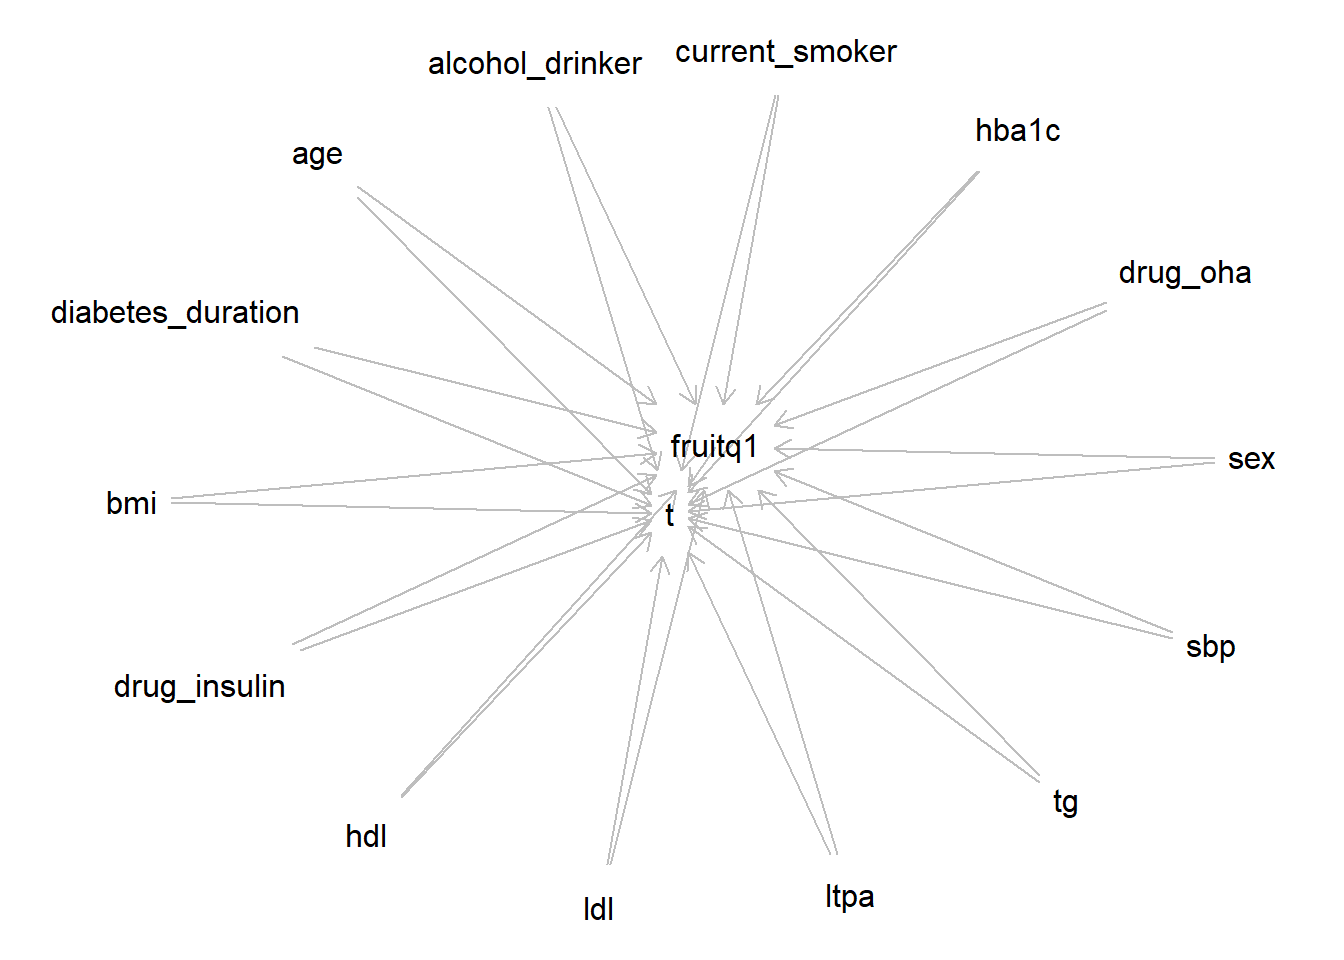
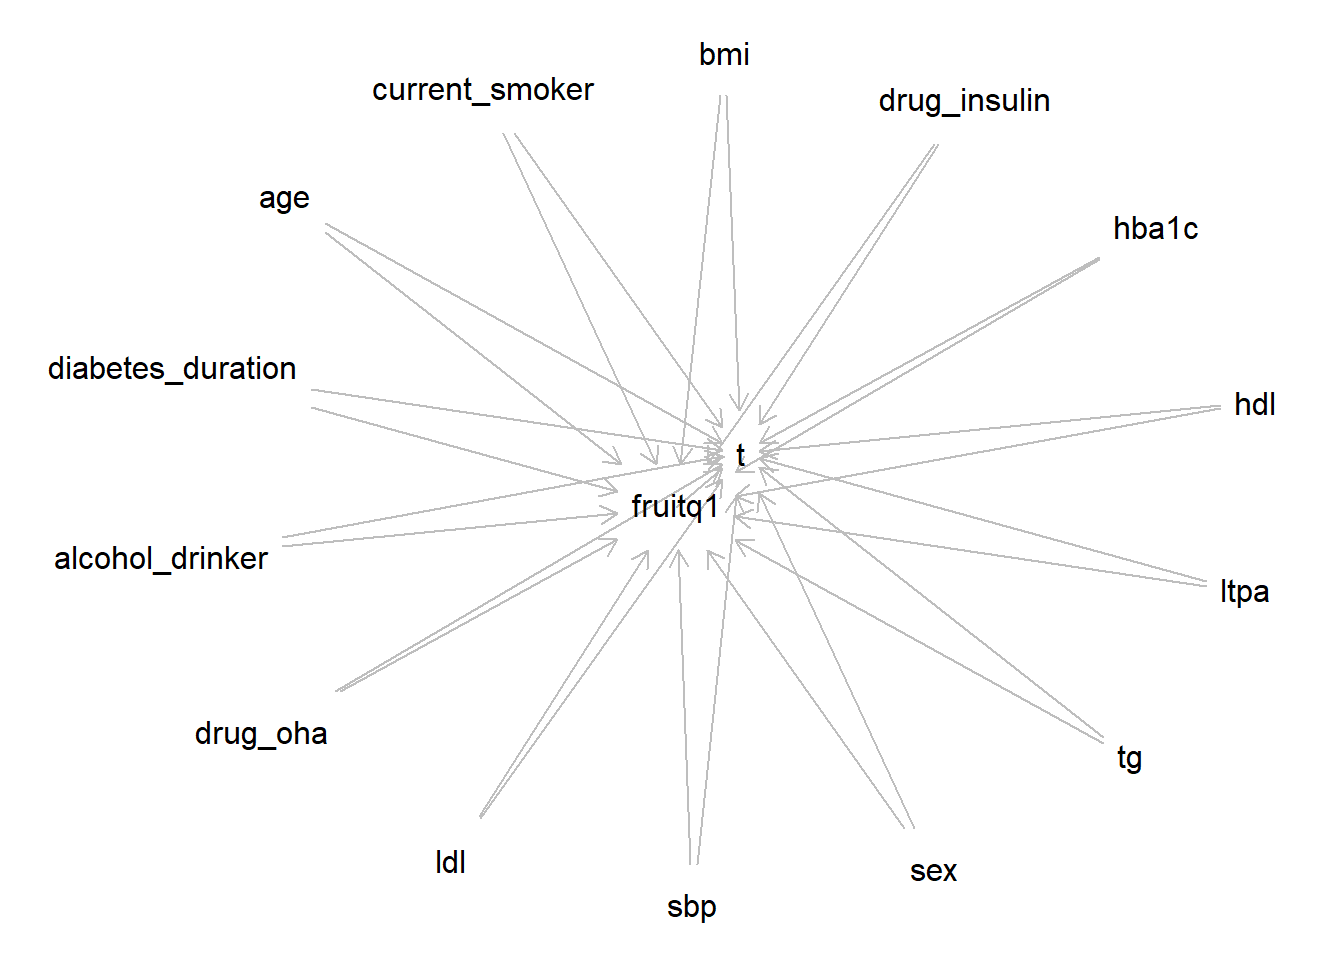
ai-r

diff --git a/docs/jp/ai-r-3.html b/docs/jp/ai-r-3.html
@@ -713,7 +713,7 @@ Adjusted    690.37  208.59</code></pre>
 </div>
 </div>
 <div class="callout callout-style-simple callout-note callout-titled" title="競合リスクデータの入力">
-<div class="callout-header d-flex align-content-center" data-bs-toggle="collapse" data-bs-target=".callout-8-contents" aria-controls="callout-8" aria-expanded="false" aria-label="Toggle callout">
+<div class="callout-header d-flex align-content-center" data-bs-toggle="collapse" data-bs-target=".callout-17-contents" aria-controls="callout-17" aria-expanded="false" aria-label="Toggle callout">
 <div class="callout-icon-container">
 <i class="callout-icon"></i>
 </div>
@@ -722,9 +722,16 @@ Adjusted    690.37  208.59</code></pre>
 </div>
 <div class="callout-btn-toggle d-inline-block border-0 py-1 ps-1 pe-0 float-end"><i class="callout-toggle"></i></div>
 </div>
-<div id="callout-8" class="callout-8-contents callout-collapse collapse">
+<div id="callout-17" class="callout-17-contents callout-collapse collapse">
 <div class="callout-body-container callout-body">
+<div class="tabset-margin-container"></div><div class="panel-tabset">
+<ul class="nav nav-tabs" role="tablist"><li class="nav-item" role="presentation"><a class="nav-link active" id="tabset-1-1-tab" data-bs-toggle="tab" data-bs-target="#tabset-1-1" role="tab" aria-controls="tabset-1-1" aria-selected="true">A</a></li><li class="nav-item" role="presentation"><a class="nav-link" id="tabset-1-2-tab" data-bs-toggle="tab" data-bs-target="#tabset-1-2" role="tab" aria-controls="tabset-1-2" aria-selected="false">B</a></li></ul>
+<div class="tab-content">
+<div id="tabset-1-1" class="tab-pane active" role="tabpanel" aria-labelledby="tabset-1-1-tab">
 <p>生存時間・競合リスクデータは2つの変数の組であるため、Rの関数に入力するときもペアで指定する必要があります。<strong>survival</strong>パッケージの<code>survfit()</code>や<code>coxph()</code>では、実は入力専用の関数<code>Surv()</code>を用意しています。入力の仕様はパッケージによってまちまちで、たとえば<strong>mets</strong>パッケージでは<code>Event()</code>を別に定義して用いています。<strong>cifmodeling</strong>パッケージの<code>cifplot()</code>は、<code>Surv()</code>と<code>Event()</code>の両方に対応しています。</p>
+</div>
+<div id="tabset-1-2" class="tab-pane" role="tabpanel" aria-labelledby="tabset-1-2-tab">
+<p>LLL</p>
 </div>
 </div>
 </div>
@@ -732,7 +739,7 @@ Adjusted    690.37  208.59</code></pre>
 <div class="sourceCode cell-code" id="cb26"><pre class="sourceCode r code-with-copy"><code class="sourceCode r"><span id="cb26-1"><a href="#cb26-1" aria-hidden="true" tabindex="-1"></a><span class="st">`</span><span class="at">cifplot()</span><span class="st">`</span>を使って、累積発生曲線を描いて。<span class="st">`</span><span class="at">epsilon=1</span><span class="st">`</span>がイベント、<span class="st">`</span><span class="at">epsilon=2</span><span class="st">`</span>が競合リスク。<span class="st">`</span><span class="at">fruitq1</span><span class="st">`</span>で層別して<span class="st">"</span></span></code><button title="Copy to Clipboard" class="code-copy-button"><i class="bi"></i></button></pre></div>
 </div>
 <div class="callout callout-style-simple callout-note callout-titled" title="累積発生曲線（デフォルト）のRコードと結果はこちら">
-<div class="callout-header d-flex align-content-center" data-bs-toggle="collapse" data-bs-target=".callout-9-contents" aria-controls="callout-9" aria-expanded="false" aria-label="Toggle callout">
+<div class="callout-header d-flex align-content-center" data-bs-toggle="collapse" data-bs-target=".callout-8-contents" aria-controls="callout-8" aria-expanded="false" aria-label="Toggle callout">
 <div class="callout-icon-container">
 <i class="callout-icon"></i>
 </div>
@@ -741,7 +748,7 @@ Adjusted    690.37  208.59</code></pre>
 </div>
 <div class="callout-btn-toggle d-inline-block border-0 py-1 ps-1 pe-0 float-end"><i class="callout-toggle"></i></div>
 </div>
-<div id="callout-9" class="callout-9-contents callout-collapse collapse">
+<div id="callout-8" class="callout-8-contents callout-collapse collapse">
 <div class="callout-body-container callout-body">
 <div class="cell">
 <div class="sourceCode cell-code" id="cb27"><pre class="sourceCode r code-with-copy"><code class="sourceCode r"><span id="cb27-1"><a href="#cb27-1" aria-hidden="true" tabindex="-1"></a><span class="fu">cifplot</span>(<span class="fu">Event</span>(t,epsilon)<span class="sc">~</span>fruitq1, <span class="at">data=</span>dat, <span class="at">outcome.type=</span><span class="st">"competing-risk"</span>, <span class="at">code.event1 =</span> <span class="dv">1</span>, <span class="at">code.event2 =</span> <span class="dv">2</span>)</span></code><button title="Copy to Clipboard" class="code-copy-button"><i class="bi"></i></button></pre></div>
@@ -773,7 +780,7 @@ Adjusted    690.37  208.59</code></pre>
 </div>
 </div>
 <div class="callout callout-style-simple callout-note callout-titled" title="競合リスクをマーキングしたRコードと結果はこちら">
-<div class="callout-header d-flex align-content-center" data-bs-toggle="collapse" data-bs-target=".callout-10-contents" aria-controls="callout-10" aria-expanded="false" aria-label="Toggle callout">
+<div class="callout-header d-flex align-content-center" data-bs-toggle="collapse" data-bs-target=".callout-9-contents" aria-controls="callout-9" aria-expanded="false" aria-label="Toggle callout">
 <div class="callout-icon-container">
 <i class="callout-icon"></i>
 </div>
@@ -782,7 +789,7 @@ Adjusted    690.37  208.59</code></pre>
 </div>
 <div class="callout-btn-toggle d-inline-block border-0 py-1 ps-1 pe-0 float-end"><i class="callout-toggle"></i></div>
 </div>
-<div id="callout-10" class="callout-10-contents callout-collapse collapse">
+<div id="callout-9" class="callout-9-contents callout-collapse collapse">
 <div class="callout-body-container callout-body">
 <div class="cell">
 <div class="sourceCode cell-code" id="cb28"><pre class="sourceCode r code-with-copy"><code class="sourceCode r"><span id="cb28-1"><a href="#cb28-1" aria-hidden="true" tabindex="-1"></a><span class="fu">cifplot</span>(<span class="fu">Event</span>(t,epsilon)<span class="sc">~</span>fruitq1, <span class="at">data=</span>dat, <span class="at">outcome.type=</span><span class="st">"competing-risk"</span>, </span>
@@ -800,7 +807,6 @@ Adjusted    690.37  208.59</code></pre>
 </div>
 </div>
 </div>
-</section>
 <section id="因果効果の推定" class="level3">
 <h3 class="anchored" data-anchor-id="因果効果の推定">因果効果の推定</h3>
 <div class="dialogue">
@@ -830,7 +836,7 @@ Adjusted    690.37  208.59</code></pre>
 </div>
 </div>
 <div class="callout callout-style-simple callout-note callout-titled" title="調整CIFのRコードと結果はこちら">
-<div class="callout-header d-flex align-content-center" data-bs-toggle="collapse" data-bs-target=".callout-11-contents" aria-controls="callout-11" aria-expanded="false" aria-label="Toggle callout">
+<div class="callout-header d-flex align-content-center" data-bs-toggle="collapse" data-bs-target=".callout-10-contents" aria-controls="callout-10" aria-expanded="false" aria-label="Toggle callout">
 <div class="callout-icon-container">
 <i class="callout-icon"></i>
 </div>
@@ -839,7 +845,7 @@ Adjusted    690.37  208.59</code></pre>
 </div>
 <div class="callout-btn-toggle d-inline-block border-0 py-1 ps-1 pe-0 float-end"><i class="callout-toggle"></i></div>
 </div>
-<div id="callout-11" class="callout-11-contents callout-collapse collapse">
+<div id="callout-10" class="callout-10-contents callout-collapse collapse">
 <div class="callout-body-container callout-body">
 <div class="cell">
 <div class="sourceCode cell-code" id="cb29"><pre class="sourceCode r code-with-copy"><code class="sourceCode r"><span id="cb29-1"><a href="#cb29-1" aria-hidden="true" tabindex="-1"></a><span class="fu">cifplot</span>(<span class="fu">Event</span>(t,epsilon)<span class="sc">~</span>fruitq1, <span class="at">data=</span>dat, <span class="at">outcome.type=</span><span class="st">"competing-risk"</span>, </span>
@@ -877,7 +883,7 @@ Adjusted    690.37  208.59</code></pre>
 </div>
 </div>
 <div class="callout callout-style-simple callout-note callout-titled" title="cifcurve()とsurvfit()を比較するためのRコードと結果はこちら">
-<div class="callout-header d-flex align-content-center" data-bs-toggle="collapse" data-bs-target=".callout-12-contents" aria-controls="callout-12" aria-expanded="false" aria-label="Toggle callout">
+<div class="callout-header d-flex align-content-center" data-bs-toggle="collapse" data-bs-target=".callout-11-contents" aria-controls="callout-11" aria-expanded="false" aria-label="Toggle callout">
 <div class="callout-icon-container">
 <i class="callout-icon"></i>
 </div>
@@ -886,7 +892,7 @@ cifcurve()とsurvfit()を比較するためのRコードと結果はこちら
 </div>
 <div class="callout-btn-toggle d-inline-block border-0 py-1 ps-1 pe-0 float-end"><i class="callout-toggle"></i></div>
 </div>
-<div id="callout-12" class="callout-12-contents callout-collapse collapse">
+<div id="callout-11" class="callout-11-contents callout-collapse collapse">
 <div class="callout-body-container callout-body">
 <div class="cell">
 <div class="sourceCode cell-code" id="cb30"><pre class="sourceCode r code-with-copy"><code class="sourceCode r"><span id="cb30-1"><a href="#cb30-1" aria-hidden="true" tabindex="-1"></a><span class="co"># install.packages("survival") # if needed</span></span>
@@ -935,7 +941,7 @@ cifcurve()とsurvfit()を比較するためのRコードと結果はこちら
 </div>
 </div>
 <div class="callout callout-style-simple callout-note callout-titled" title="調整CIFを比較するためのRコードと結果はこちら">
-<div class="callout-header d-flex align-content-center" data-bs-toggle="collapse" data-bs-target=".callout-13-contents" aria-controls="callout-13" aria-expanded="false" aria-label="Toggle callout">
+<div class="callout-header d-flex align-content-center" data-bs-toggle="collapse" data-bs-target=".callout-12-contents" aria-controls="callout-12" aria-expanded="false" aria-label="Toggle callout">
 <div class="callout-icon-container">
 <i class="callout-icon"></i>
 </div>
@@ -944,7 +950,7 @@ cifcurve()とsurvfit()を比較するためのRコードと結果はこちら
 </div>
 <div class="callout-btn-toggle d-inline-block border-0 py-1 ps-1 pe-0 float-end"><i class="callout-toggle"></i></div>
 </div>
-<div id="callout-13" class="callout-13-contents callout-collapse collapse">
+<div id="callout-12" class="callout-12-contents callout-collapse collapse">
 <div class="callout-body-container callout-body">
 <div class="cell">
 <div class="sourceCode cell-code" id="cb32"><pre class="sourceCode r code-with-copy"><code class="sourceCode r"><span id="cb32-1"><a href="#cb32-1" aria-hidden="true" tabindex="-1"></a>compare_weighted <span class="ot">&lt;-</span> <span class="fu">compare</span>(<span class="at">data=</span>dat, <span class="at">weights=</span><span class="st">"ip.weight"</span>, <span class="at">limit.x=</span><span class="dv">20</span>)</span>
@@ -985,14 +991,16 @@ cifcurve()とsurvfit()を比較するためのRコードと結果はこちら
 </div>
 </div>
 <div class="callout callout-style-simple callout-note callout-titled" title="調整CIFのための実務チェックリスト">
-<div class="callout-header d-flex align-content-center">
+<div class="callout-header d-flex align-content-center" data-bs-toggle="collapse" data-bs-target=".callout-13-contents" aria-controls="callout-13" aria-expanded="false" aria-label="Toggle callout">
 <div class="callout-icon-container">
 <i class="callout-icon"></i>
 </div>
 <div class="callout-title-container flex-fill">
 調整CIFのための実務チェックリスト
 </div>
+<div class="callout-btn-toggle d-inline-block border-0 py-1 ps-1 pe-0 float-end"><i class="callout-toggle"></i></div>
 </div>
+<div id="callout-13" class="callout-13-contents callout-collapse collapse">
 <div class="callout-body-container callout-body">
 <section id="推定目標estimand" class="level3">
 <h3 class="anchored" data-anchor-id="推定目標estimand">推定目標（estimand）</h3>
@@ -1112,6 +1120,7 @@ cifcurve()とsurvfit()を比較するためのRコードと結果はこちら
 </section>
 </div>
 </div>
+</div>
 <div class="callout callout-style-simple callout-note callout-titled" title="このエピソードに関係するクイズです">
 <div class="callout-header d-flex align-content-center">
 <div class="callout-icon-container">
@@ -1124,15 +1133,15 @@ cifcurve()とsurvfit()を比較するためのRコードと結果はこちら
 <div class="callout-body-container callout-body">
 <p>同じ生存時間データでも、パッケージの仕様・コーディングによってイベントの扱いが変わるため、正しく競合リスクが指定できているか気をつける必要があります。<code>cifplot()</code>では、<code>outcome.type="survival"</code>または<code>outcome.type="competing-risk"</code>で区別します。それでは、<code>survfit()</code>でAalen-Johansen曲線を選ぶための指定として正しいのは、次のうちどれでしょうか。もちろん、イベント変数には3水準以上が含まれることが前提です。</p>
 <ol type="1">
-<li>イベント変数の水準が0, 1, 2になっていること</li>
-<li>イベント変数の値に2が含まれていること</li>
+<li>イベント変数の水準が0, 1, 2という数値なっていること</li>
+<li>イベント変数の数値に2が含まれていること</li>
 <li>イベント変数がfactor型であること</li>
-<li><code>type="mstate"</code>というオプションを指定すること</li>
+<li><code>survfit(..., type="mstate")</code>というオプションを指定すること</li>
 </ol>
 </div>
 </div>
 <div class="callout callout-style-simple callout-note callout-titled" title="答えはこちら">
-<div class="callout-header d-flex align-content-center" data-bs-toggle="collapse" data-bs-target=".callout-16-contents" aria-controls="callout-16" aria-expanded="false" aria-label="Toggle callout">
+<div class="callout-header d-flex align-content-center" data-bs-toggle="collapse" data-bs-target=".callout-15-contents" aria-controls="callout-15" aria-expanded="false" aria-label="Toggle callout">
 <div class="callout-icon-container">
 <i class="callout-icon"></i>
 </div>
@@ -1141,7 +1150,7 @@ cifcurve()とsurvfit()を比較するためのRコードと結果はこちら
 </div>
 <div class="callout-btn-toggle d-inline-block border-0 py-1 ps-1 pe-0 float-end"><i class="callout-toggle"></i></div>
 </div>
-<div id="callout-16" class="callout-16-contents callout-collapse collapse">
+<div id="callout-15" class="callout-15-contents callout-collapse collapse">
 <div class="callout-body-container callout-body">
 <ul>
 <li><strong>正解は3です</strong></li>
@@ -1150,10 +1159,13 @@ cifcurve()とsurvfit()を比較するためのRコードと結果はこちら
 <p>また、<code>type="mstate"</code>というオプションは、<strong>survival</strong>パッケージversion 3.8-3では使用されていません。</p>
 <p>競合リスクを無視した場合、<code>survfit()</code>の出力には生存確率（<code>surv</code>）が含まれます 。一方で、競合リスクを含む複数イベントを扱う場合は、生存確率の代わりに推移確率（<code>pstate</code>）が出力されます。以下のRスクリプトを実行して、factor型とnumeric型の出力の違いを確認してみてください。</p>
 <div class="cell">
-<div class="sourceCode cell-code" id="cb34"><pre class="sourceCode r code-with-copy"><code class="sourceCode r"><span id="cb34-1"><a href="#cb34-1" aria-hidden="true" tabindex="-1"></a>out3 <span class="ot">&lt;-</span> <span class="fu">survfit</span>(<span class="fu">Surv</span>(t, <span class="fu">factor</span>(epsilon))<span class="sc">~</span>fruitq1, <span class="at">data=</span>dat)</span>
-<span id="cb34-2"><a href="#cb34-2" aria-hidden="true" tabindex="-1"></a><span class="fu">names</span>(out3)</span>
-<span id="cb34-3"><a href="#cb34-3" aria-hidden="true" tabindex="-1"></a>out4 <span class="ot">&lt;-</span> <span class="fu">survfit</span>(<span class="fu">Surv</span>(t, epsilon)<span class="sc">~</span>fruitq1, <span class="at">data=</span>dat)</span>
-<span id="cb34-4"><a href="#cb34-4" aria-hidden="true" tabindex="-1"></a><span class="fu">names</span>(out4)</span></code><button title="Copy to Clipboard" class="code-copy-button"><i class="bi"></i></button></pre></div>
+<div class="sourceCode cell-code" id="cb34"><pre class="sourceCode r code-with-copy"><code class="sourceCode r"><span id="cb34-1"><a href="#cb34-1" aria-hidden="true" tabindex="-1"></a><span class="fu">library</span>(survival)</span>
+<span id="cb34-2"><a href="#cb34-2" aria-hidden="true" tabindex="-1"></a><span class="fu">library</span>(cifmodeling)</span>
+<span id="cb34-3"><a href="#cb34-3" aria-hidden="true" tabindex="-1"></a><span class="fu">data</span>(diabetes.complications)</span>
+<span id="cb34-4"><a href="#cb34-4" aria-hidden="true" tabindex="-1"></a>out3 <span class="ot">&lt;-</span> <span class="fu">survfit</span>(<span class="fu">Surv</span>(t, <span class="fu">factor</span>(epsilon))<span class="sc">~</span>fruitq1, <span class="at">data=</span>diabetes.complications)</span>
+<span id="cb34-5"><a href="#cb34-5" aria-hidden="true" tabindex="-1"></a><span class="fu">names</span>(out3)</span>
+<span id="cb34-6"><a href="#cb34-6" aria-hidden="true" tabindex="-1"></a>out4 <span class="ot">&lt;-</span> <span class="fu">survfit</span>(<span class="fu">Surv</span>(t, epsilon)<span class="sc">~</span>fruitq1, <span class="at">data=</span>diabetes.complications)</span>
+<span id="cb34-7"><a href="#cb34-7" aria-hidden="true" tabindex="-1"></a><span class="fu">names</span>(out4)</span></code><button title="Copy to Clipboard" class="code-copy-button"><i class="bi"></i></button></pre></div>
 </div>
 </div>
 </div>
@@ -1170,7 +1182,7 @@ cifcurve()とsurvfit()を比較するためのRコードと結果はこちら
 </ul>
 <p>どのエピソードも独立しているので、興味の向くレイヤーを選んでも構いません。</p>
 <div class="callout callout-style-simple callout-note callout-titled" title="関連エピソードはこちら">
-<div class="callout-header d-flex align-content-center" data-bs-toggle="collapse" data-bs-target=".callout-17-contents" aria-controls="callout-17" aria-expanded="false" aria-label="Toggle callout">
+<div class="callout-header d-flex align-content-center" data-bs-toggle="collapse" data-bs-target=".callout-16-contents" aria-controls="callout-16" aria-expanded="false" aria-label="Toggle callout">
 <div class="callout-icon-container">
 <i class="callout-icon"></i>
 </div>
@@ -1179,7 +1191,7 @@ cifcurve()とsurvfit()を比較するためのRコードと結果はこちら
 </div>
 <div class="callout-btn-toggle d-inline-block border-0 py-1 ps-1 pe-0 float-end"><i class="callout-toggle"></i></div>
 </div>
-<div id="callout-17" class="callout-17-contents callout-collapse collapse">
+<div id="callout-16" class="callout-16-contents callout-collapse collapse">
 <div class="callout-body-container callout-body">
 <p><strong>このシリーズのエピソード</strong></p>
 <ul>
@@ -1209,6 +1221,10 @@ cifcurve()とsurvfit()を比較するためのRコードと結果はこちら
 </div>
 
 
+</section>
+</div>
+</div>
+</div>
 </section>
 </div>
 </section>

diff --git a/docs/jp/frequentist-5.html b/docs/jp/frequentist-5.html
@@ -500,7 +500,7 @@ calculate_coverage()を実行するRコードと結果はこちら
 <span id="cb3-3"><a href="#cb3-3" aria-hidden="true" tabindex="-1"></a>coverage_200 <span class="ot">&lt;-</span> <span class="fu">calculate_coverage</span>(<span class="at">model=</span><span class="st">"coxph"</span>, <span class="at">n=</span><span class="dv">200</span>, <span class="at">hr1=</span><span class="dv">2</span>, <span class="at">hr2=</span><span class="fl">1.5</span>, <span class="at">hr_true=</span><span class="fl">1.5</span>)</span>
 <span id="cb3-4"><a href="#cb3-4" aria-hidden="true" tabindex="-1"></a><span class="fu">print</span>(coverage_200)</span></code><button title="Copy to Clipboard" class="code-copy-button"><i class="bi"></i></button></pre></div>
 <div class="cell-output cell-output-stdout">
-<pre><code>[1] 0.966</code></pre>
+<pre><code>[1] 0.948</code></pre>
 </div>
 </div>
 </div>
@@ -544,19 +544,19 @@ calculate_coverage()を実行するRコードと結果はこちら
 <span id="cb5-3"><a href="#cb5-3" aria-hidden="true" tabindex="-1"></a>coverage_800 <span class="ot">&lt;-</span> <span class="fu">calculate_coverage</span>(<span class="at">model=</span><span class="st">"coxph"</span>, <span class="at">n=</span><span class="dv">800</span>, <span class="at">hr1=</span><span class="dv">2</span>, <span class="at">hr2=</span><span class="fl">1.5</span>, <span class="at">hr_true=</span><span class="fl">1.5</span>)</span>
 <span id="cb5-4"><a href="#cb5-4" aria-hidden="true" tabindex="-1"></a><span class="fu">print</span>(coverage_100)</span></code><button title="Copy to Clipboard" class="code-copy-button"><i class="bi"></i></button></pre></div>
 <div class="cell-output cell-output-stdout">
-<pre><code>[1] 0.963</code></pre>
+<pre><code>[1] 0.939</code></pre>
 </div>
 <div class="sourceCode cell-code" id="cb7"><pre class="sourceCode r code-with-copy"><code class="sourceCode r"><span id="cb7-1"><a href="#cb7-1" aria-hidden="true" tabindex="-1"></a><span class="fu">print</span>(coverage_200)</span></code><button title="Copy to Clipboard" class="code-copy-button"><i class="bi"></i></button></pre></div>
 <div class="cell-output cell-output-stdout">
-<pre><code>[1] 0.966</code></pre>
+<pre><code>[1] 0.948</code></pre>
 </div>
 <div class="sourceCode cell-code" id="cb9"><pre class="sourceCode r code-with-copy"><code class="sourceCode r"><span id="cb9-1"><a href="#cb9-1" aria-hidden="true" tabindex="-1"></a><span class="fu">print</span>(coverage_400)</span></code><button title="Copy to Clipboard" class="code-copy-button"><i class="bi"></i></button></pre></div>
 <div class="cell-output cell-output-stdout">
-<pre><code>[1] 0.945</code></pre>
+<pre><code>[1] 0.956</code></pre>
 </div>
 <div class="sourceCode cell-code" id="cb11"><pre class="sourceCode r code-with-copy"><code class="sourceCode r"><span id="cb11-1"><a href="#cb11-1" aria-hidden="true" tabindex="-1"></a><span class="fu">print</span>(coverage_800)</span></code><button title="Copy to Clipboard" class="code-copy-button"><i class="bi"></i></button></pre></div>
 <div class="cell-output cell-output-stdout">
-<pre><code>[1] 0.952</code></pre>
+<pre><code>[1] 0.943</code></pre>
 </div>
 </div>
 </div>

diff --git a/docs/jp/frequentist-2.html b/docs/jp/frequentist-2.html
@@ -546,20 +546,20 @@ coxph()のコードと結果はこちら
 <pre><code>Call:
 coxph(formula = Surv(time_os, status_os) ~ stoma, data = dat)
 
-  n= 200, number of events= 144 
+  n= 200, number of events= 157 
 
-                  coef exp(coef) se(coef)     z Pr(&gt;|z|)    
-stomaWITH STOMA 0.7494    2.1157   0.1793 4.181 2.91e-05 ***
+                  coef exp(coef) se(coef)     z Pr(&gt;|z|)   
+stomaWITH STOMA 0.4194    1.5211   0.1624 2.582  0.00981 **
 ---
 Signif. codes:  0 '***' 0.001 '**' 0.01 '*' 0.05 '.' 0.1 ' ' 1
 
                 exp(coef) exp(-coef) lower .95 upper .95
-stomaWITH STOMA     2.116     0.4727     1.489     3.006
+stomaWITH STOMA     1.521     0.6574     1.106     2.091
 
-Concordance= 0.585  (se = 0.023 )
-Likelihood ratio test= 16.86  on 1 df,   p=4e-05
-Wald test            = 17.48  on 1 df,   p=3e-05
-Score (logrank) test = 18.25  on 1 df,   p=2e-05</code></pre>
+Concordance= 0.549  (se = 0.022 )
+Likelihood ratio test= 6.59  on 1 df,   p=0.01
+Wald test            = 6.67  on 1 df,   p=0.01
+Score (logrank) test = 6.76  on 1 df,   p=0.009</code></pre>
 </div>
 </div>
 </div>

diff --git a/docs/en/frequentist-2.html b/docs/en/frequentist-2.html
@@ -556,20 +556,20 @@ R code for coxph() and outout
 <pre><code>Call:
 coxph(formula = Surv(time_os, status_os) ~ stoma, data = dat)
 
-  n= 200, number of events= 141 
+  n= 200, number of events= 128 
 
-                  coef exp(coef) se(coef)     z Pr(&gt;|z|)  
-stomaWITH STOMA 0.4065    1.5015   0.1816 2.238   0.0252 *
+                  coef exp(coef) se(coef)     z Pr(&gt;|z|)    
+stomaWITH STOMA 0.7394    2.0947   0.1893 3.905 9.41e-05 ***
 ---
 Signif. codes:  0 '***' 0.001 '**' 0.01 '*' 0.05 '.' 0.1 ' ' 1
 
                 exp(coef) exp(-coef) lower .95 upper .95
-stomaWITH STOMA     1.501      0.666     1.052     2.143
+stomaWITH STOMA     2.095     0.4774     1.445     3.036
 
-Concordance= 0.54  (se = 0.023 )
-Likelihood ratio test= 4.82  on 1 df,   p=0.03
-Wald test            = 5.01  on 1 df,   p=0.03
-Score (logrank) test = 5.08  on 1 df,   p=0.02</code></pre>
+Concordance= 0.572  (se = 0.025 )
+Likelihood ratio test= 14.76  on 1 df,   p=1e-04
+Wald test            = 15.25  on 1 df,   p=9e-05
+Score (logrank) test = 15.87  on 1 df,   p=7e-05</code></pre>
 </div>
 </div>
 </div>
